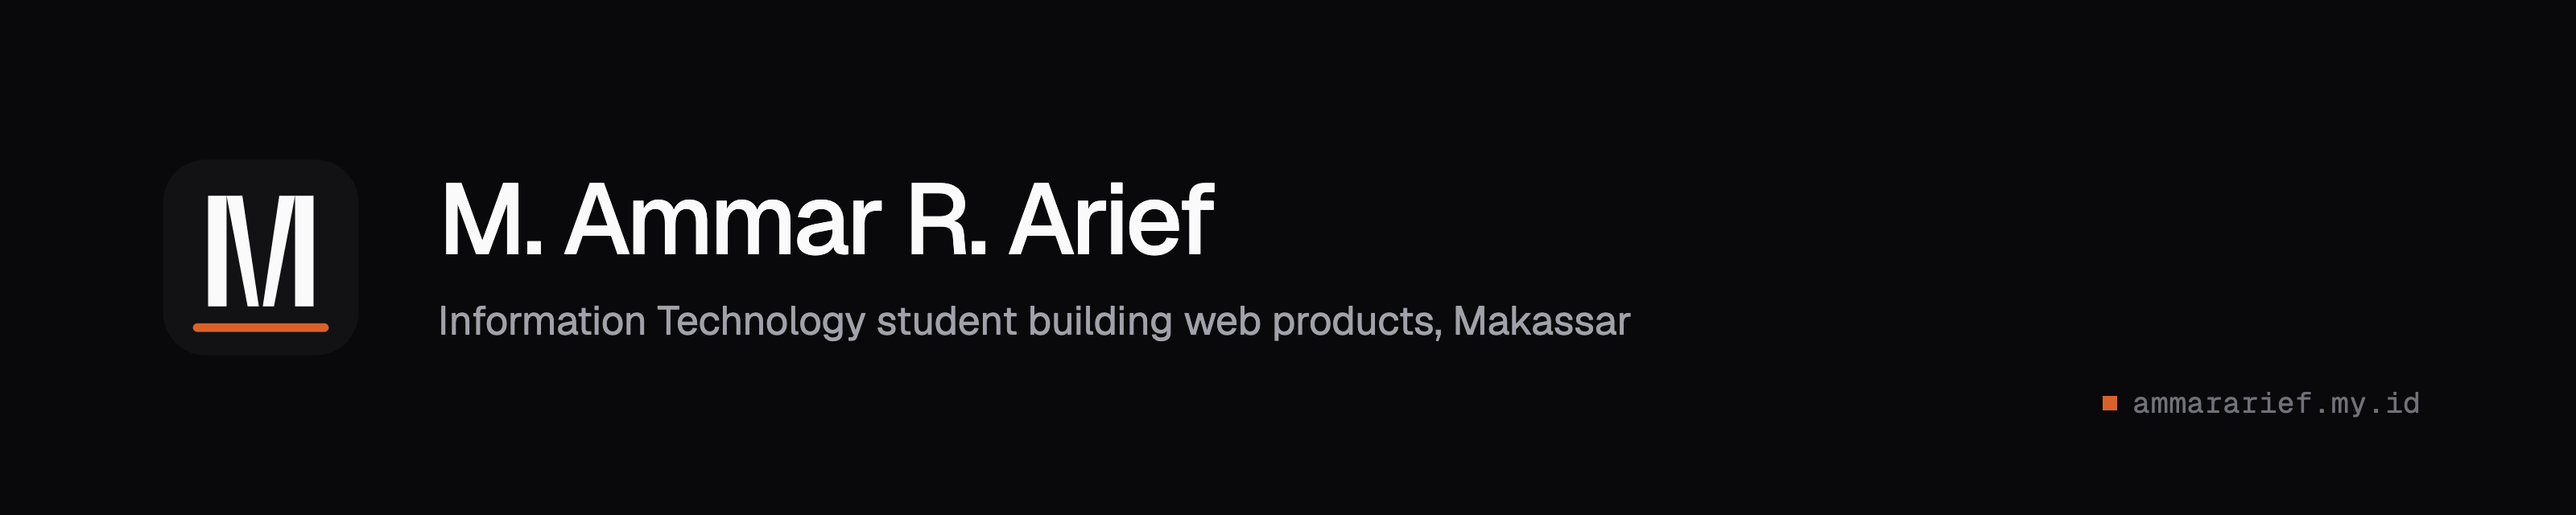
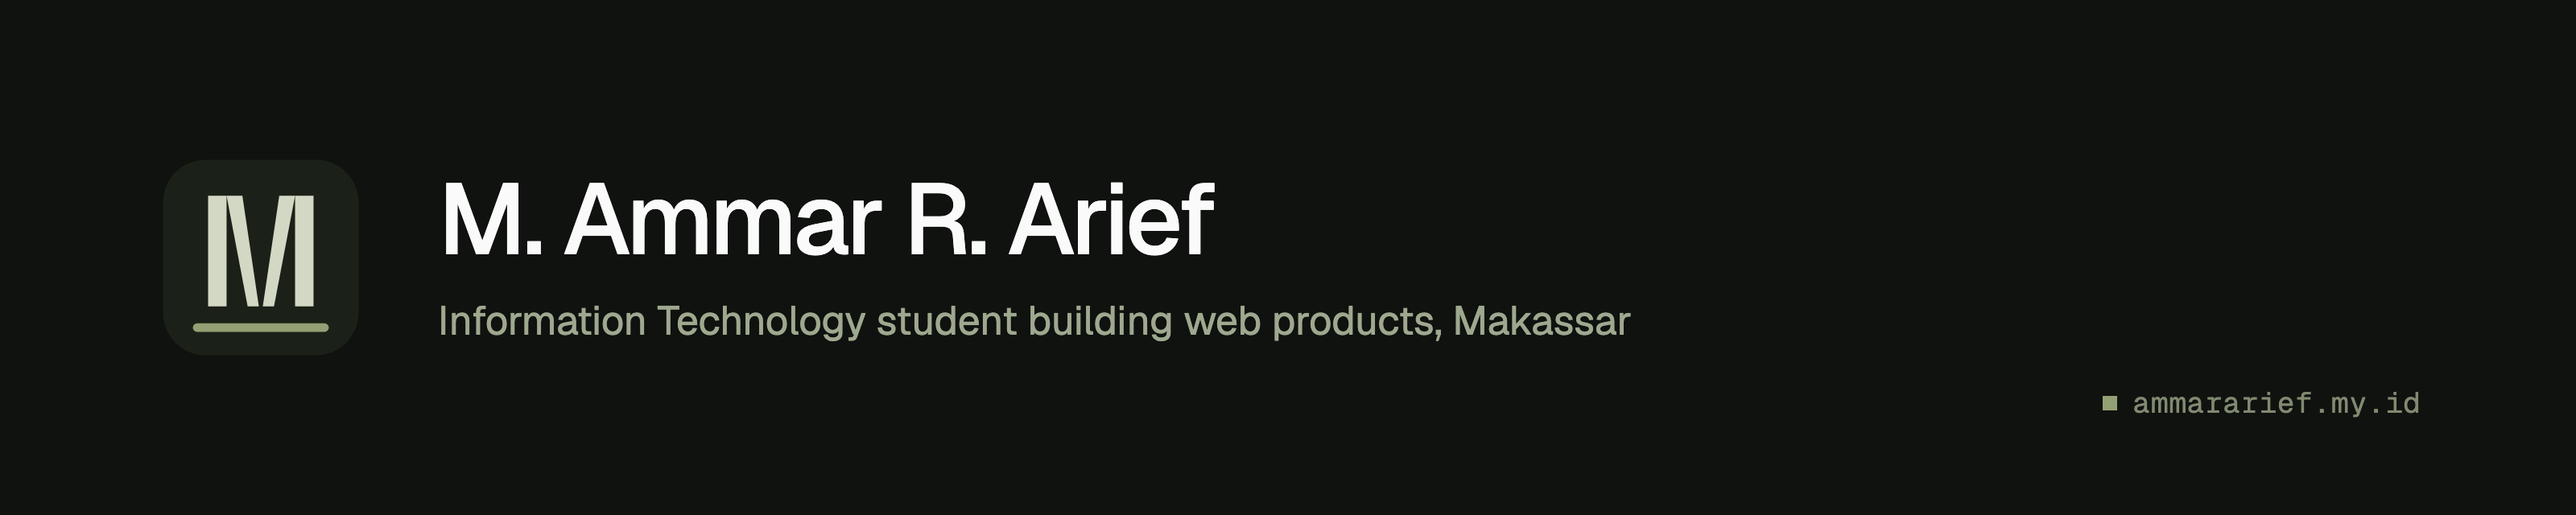
Recolor from profile photo palette

diff --git a/banner.html b/banner.html
@@ -14,11 +14,11 @@
     font-weight: 100 900;
   }
   * { margin: 0; padding: 0; box-sizing: border-box; }
-  html, body { width: 1600px; height: 320px; background: #09090B; }
+  html, body { width: 1600px; height: 320px; background: #0F120E; }
   .wrap {
     position: relative;
     width: 1600px; height: 320px;
-    background: #09090B;
+    background: #0F120E;
     display: flex; align-items: center; gap: 44px;
     padding: 0 96px;
   }
@@ -30,28 +30,28 @@
   }
   .sub {
     font-family: "Geist", sans-serif; font-weight: 400;
-    font-size: 25px; line-height: 1.3; color: #A1A1AA;
+    font-size: 25px; line-height: 1.3; color: #9BA88C;
   }
   .domain {
     position: absolute; right: 96px; bottom: 58px;
     font-family: "GeistMono", monospace; font-size: 18px; letter-spacing: 0.4px;
-    color: #71717A; display: flex; align-items: center; gap: 10px;
+    color: #7D8A6E; display: flex; align-items: center; gap: 10px;
   }
-  .dot { width: 9px; height: 9px; background: #EA580C; }
-  .rule { position: absolute; left: 0; right: 0; bottom: 0; height: 4px; background: #EA580C; }
+  .dot { width: 9px; height: 9px; background: #8EA06D; }
+  .rule { position: absolute; left: 0; right: 0; bottom: 0; height: 4px; background: #8EA06D; }
 </style>
 </head>
 <body>
   <div class="wrap">
     <svg class="mark" viewBox="0 0 100 100" xmlns="http://www.w3.org/2000/svg">
-      <rect x="4" y="4" width="92" height="92" rx="20" fill="#121215"/>
-      <g fill="#FAFAFA" transform="translate(50 47) scale(0.62) translate(-50 -50)">
+      <rect x="4" y="4" width="92" height="92" rx="20" fill="#1A2117"/>
+      <g fill="#D2D8C2" transform="translate(50 47) scale(0.62) translate(-50 -50)">
         <path d="M10 8h14v84H10z"/>
         <path d="M76 8h14v84H76z"/>
         <path d="M24 8h12l12.5 84H40z"/>
         <path d="M76 8H64L51.5 92H60z"/>
       </g>
-      <rect x="18" y="81" width="64" height="4" rx="2" fill="#EA580C"/>
+      <rect x="18" y="81" width="64" height="4" rx="2" fill="#8EA06D"/>
     </svg>
     <div class="text">
       <h1>M. Ammar R. Arief</h1>

diff --git a/README.md b/README.md
@@ -17,38 +17,38 @@
 <h3>🧰 Tech Garden</h3>
 
 <p align="center">
-  <img src="https://img.shields.io/badge/TypeScript-121215?style=for-the-badge&logo=typescript&logoColor=EA580C" alt="TypeScript" />
-  <img src="https://img.shields.io/badge/JavaScript-121215?style=for-the-badge&logo=javascript&logoColor=EA580C" alt="JavaScript" />
-  <img src="https://img.shields.io/badge/Rust-121215?style=for-the-badge&logo=rust&logoColor=EA580C" alt="Rust" />
-  <img src="https://img.shields.io/badge/Swift-121215?style=for-the-badge&logo=swift&logoColor=EA580C" alt="Swift" />
-  <img src="https://img.shields.io/badge/Shell-121215?style=for-the-badge&logo=gnubash&logoColor=EA580C" alt="Shell" />
-  <img src="https://img.shields.io/badge/React-121215?style=for-the-badge&logo=react&logoColor=EA580C" alt="React" />
-  <img src="https://img.shields.io/badge/Next.js-121215?style=for-the-badge&logo=nextdotjs&logoColor=EA580C" alt="Next.js" />
-  <img src="https://img.shields.io/badge/TanStack_Start-121215?style=for-the-badge&logo=reactquery&logoColor=EA580C" alt="TanStack Start" />
-  <img src="https://img.shields.io/badge/Tailwind_CSS-121215?style=for-the-badge&logo=tailwindcss&logoColor=EA580C" alt="Tailwind CSS" />
-  <img src="https://img.shields.io/badge/Node.js-121215?style=for-the-badge&logo=nodedotjs&logoColor=EA580C" alt="Node.js" />
-  <img src="https://img.shields.io/badge/Cloudflare_Workers-121215?style=for-the-badge&logo=cloudflareworkers&logoColor=EA580C" alt="Cloudflare Workers" />
-  <img src="https://img.shields.io/badge/Cloudflare_D1-121215?style=for-the-badge&logo=cloudflare&logoColor=EA580C" alt="Cloudflare D1" />
-  <img src="https://img.shields.io/badge/SQLite-121215?style=for-the-badge&logo=sqlite&logoColor=EA580C" alt="SQLite" />
-  <img src="https://img.shields.io/badge/Git-121215?style=for-the-badge&logo=git&logoColor=EA580C" alt="Git" />
-  <img src="https://img.shields.io/badge/macOS-121215?style=for-the-badge&logo=apple&logoColor=EA580C" alt="macOS" />
+  <img src="https://img.shields.io/badge/TypeScript-0F120E?style=for-the-badge&logo=typescript&logoColor=8EA06D" alt="TypeScript" />
+  <img src="https://img.shields.io/badge/JavaScript-0F120E?style=for-the-badge&logo=javascript&logoColor=8EA06D" alt="JavaScript" />
+  <img src="https://img.shields.io/badge/Rust-0F120E?style=for-the-badge&logo=rust&logoColor=8EA06D" alt="Rust" />
+  <img src="https://img.shields.io/badge/Swift-0F120E?style=for-the-badge&logo=swift&logoColor=8EA06D" alt="Swift" />
+  <img src="https://img.shields.io/badge/Shell-0F120E?style=for-the-badge&logo=gnubash&logoColor=8EA06D" alt="Shell" />
+  <img src="https://img.shields.io/badge/React-0F120E?style=for-the-badge&logo=react&logoColor=8EA06D" alt="React" />
+  <img src="https://img.shields.io/badge/Next.js-0F120E?style=for-the-badge&logo=nextdotjs&logoColor=8EA06D" alt="Next.js" />
+  <img src="https://img.shields.io/badge/TanStack_Start-0F120E?style=for-the-badge&logo=reactquery&logoColor=8EA06D" alt="TanStack Start" />
+  <img src="https://img.shields.io/badge/Tailwind_CSS-0F120E?style=for-the-badge&logo=tailwindcss&logoColor=8EA06D" alt="Tailwind CSS" />
+  <img src="https://img.shields.io/badge/Node.js-0F120E?style=for-the-badge&logo=nodedotjs&logoColor=8EA06D" alt="Node.js" />
+  <img src="https://img.shields.io/badge/Cloudflare_Workers-0F120E?style=for-the-badge&logo=cloudflareworkers&logoColor=8EA06D" alt="Cloudflare Workers" />
+  <img src="https://img.shields.io/badge/Cloudflare_D1-0F120E?style=for-the-badge&logo=cloudflare&logoColor=8EA06D" alt="Cloudflare D1" />
+  <img src="https://img.shields.io/badge/SQLite-0F120E?style=for-the-badge&logo=sqlite&logoColor=8EA06D" alt="SQLite" />
+  <img src="https://img.shields.io/badge/Git-0F120E?style=for-the-badge&logo=git&logoColor=8EA06D" alt="Git" />
+  <img src="https://img.shields.io/badge/macOS-0F120E?style=for-the-badge&logo=apple&logoColor=8EA06D" alt="macOS" />
 </p>
 
-<h3>🟠 Activity</h3>
+<h3>🌿 Activity</h3>
 
 <table align="center">
   <tr>
     <td width="49%" valign="top">
-      <img width="100%" src="https://github-readme-stats.vercel.app/api?username=AmmarArief&show_icons=true&hide_border=true&bg_color=09090B&title_color=EA580C&icon_color=EA580C&text_color=A1A1AA&custom_title=Commit%20log" alt="GitHub stats" />
+      <img width="100%" src="https://github-readme-stats.vercel.app/api?username=AmmarArief&show_icons=true&hide_border=true&bg_color=0F120E&title_color=8EA06D&icon_color=8EA06D&text_color=9BA88C&custom_title=Commit%20log" alt="GitHub stats" />
     </td>
     <td width="2%"></td>
     <td width="49%" valign="top">
-      <img width="100%" src="https://github-readme-stats.vercel.app/api/top-langs/?username=AmmarArief&layout=compact&langs_count=8&hide_border=true&bg_color=09090B&title_color=EA580C&text_color=A1A1AA&custom_title=Languages" alt="Top languages" />
+      <img width="100%" src="https://github-readme-stats.vercel.app/api/top-langs/?username=AmmarArief&layout=compact&langs_count=8&hide_border=true&bg_color=0F120E&title_color=8EA06D&text_color=9BA88C&custom_title=Languages" alt="Top languages" />
     </td>
   </tr>
   <tr>
     <td colspan="3" align="center">
-      <img width="62%" src="https://streak-stats.demolab.com?user=AmmarArief&theme=dark&hide_border=true&background=09090B&ring=EA580C&fire=EA580C&currStreakLabel=EA580C&sideNums=EA580C&currStreakNum=EA580C&dates=A1A1AA&sideLabels=A1A1AA" alt="GitHub streak" />
+      <img width="62%" src="https://streak-stats.demolab.com?user=AmmarArief&theme=dark&hide_border=true&background=0F120E&ring=8EA06D&fire=8EA06D&currStreakLabel=8EA06D&sideNums=8EA06D&currStreakNum=8EA06D&dates=9BA88C&sideLabels=9BA88C" alt="GitHub streak" />
     </td>
   </tr>
 </table>
